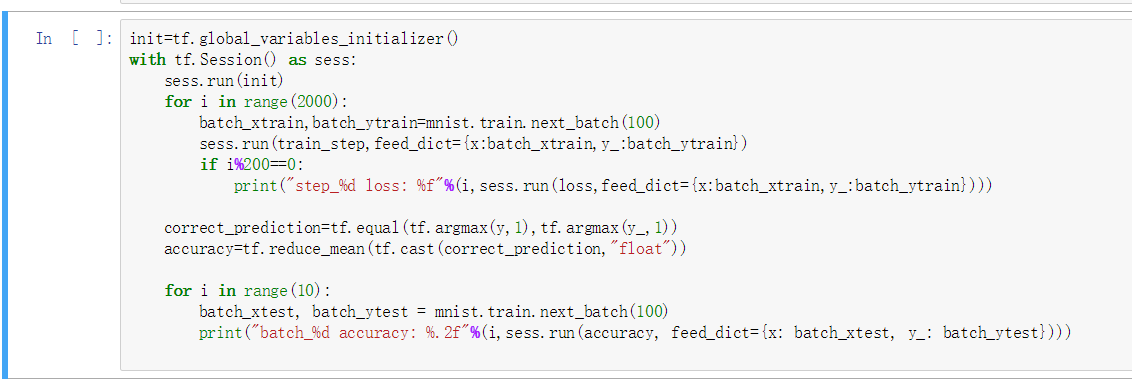
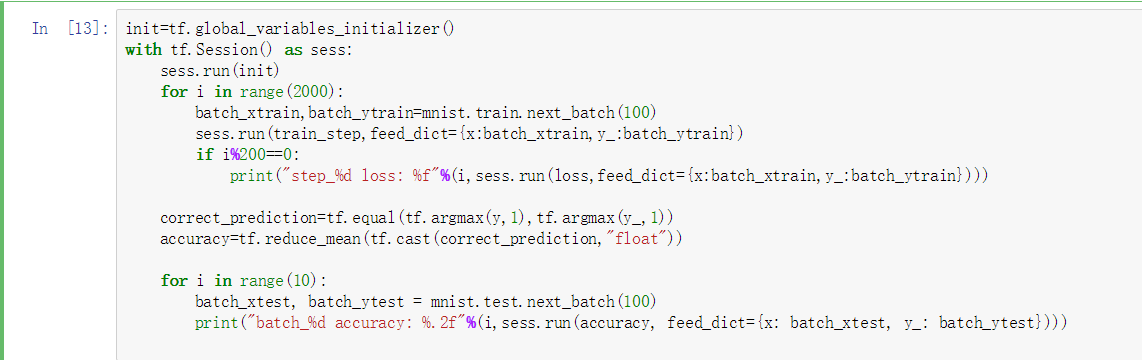
Updates 2-tensorflow-shi-xian-shen-jing-wang-luo/22-tensorflow-gou-jian-shen-jing-wang-luo-shi-bie-shou-xie-shu-zi.md
Auto commit by GitBook Editor

Changed region(s): [[0.0, 0.0, 1.0, 1.0], [0.1237, 0.7333, 0.9585, 0.9167], [0.1237, 0.5806, 0.6184, 0.7028]]

diff --git a/2-tensorflow-shi-xian-shen-jing-wang-luo/22-tensorflow-gou-jian-shen-jing-wang-luo-shi-bie-shou-xie-shu-zi.md b/2-tensorflow-shi-xian-shen-jing-wang-luo/22-tensorflow-gou-jian-shen-jing-wang-luo-shi-bie-shou-xie-shu-zi.md
@@ -29,6 +29,7 @@
 **train_step =  tf.train.GradientDescentOptimizer(0.001).minimize(loss)**是指以0.001为学习率进行梯度下降，已达到loss局部最小化值。tensorflow的梯度下降函数会自动进行反向传播更新w和b的值，这一点无需我们自己去实现。
 
 * ###创建会话，训练神经网络，输入验证集，计算准确率。
+
 ![](/assets/微信截图_20180510011041.png)
 
 
@@ -48,4 +49,27 @@
    
    **tf.reduce_mean(A)**:该函数求A中元素的平均值。
   
-5. 上面我们介绍了怎么计算预测的准确度。接下来，我们用for循环迭代10个batch,
+5. 上面我们介绍了怎么计算预测的准确度。接下来，我们用for循环迭代10个batch,每个batch为100个从测试集中随机抽取的测试样本。方法与训练集batch一样，此处不再赘述。然后我们用训练好的神经网络来识别每个batch中的数字图片，并计算预测准确度。可以看出，我们训练的神经网络在大部分测试集batch上都达到了90%以上的识别率。
+
+![](/assets/微信截图_20180510021011.png)
+
+* ###总结：
+本文利用tensorflow实现了最简单的神经网络，实现手写数字识别。当然，本例没有做太多神经网络优化，比如损失函数loss过于粗糙，训练迭代次数等都会影响到神经网络的预测效果。在后续的学习中，我们会讲解一些神经网络的优化方法。
+
+* ###附本例完整代码：
+```
+import tensorflow as tf
+from tensorflow.examples.tutorials.mnist import input_data
+mnist = input_data.read_data_sets(r"E:\\TensorFlow_Study\\MNIST_data\\", one_hot=True)
+
+x = tf.placeholder(tf.float32,[None,784])
+w = tf.Variable(tf.zeros([784,10]))
+b = tf.Variable(tf.zeros([10]))
+y = tf.nn.softmax(tf.matmul(x,w)+b)
+y_ = tf.placeholder(tf.float32,[None,10])
+
+loss = tf.reduce_sum(tf.square(y-y_))
+train_step = tf.train.GradientDescentOptimizer(0.001).minimize(loss)
+
+```
+
